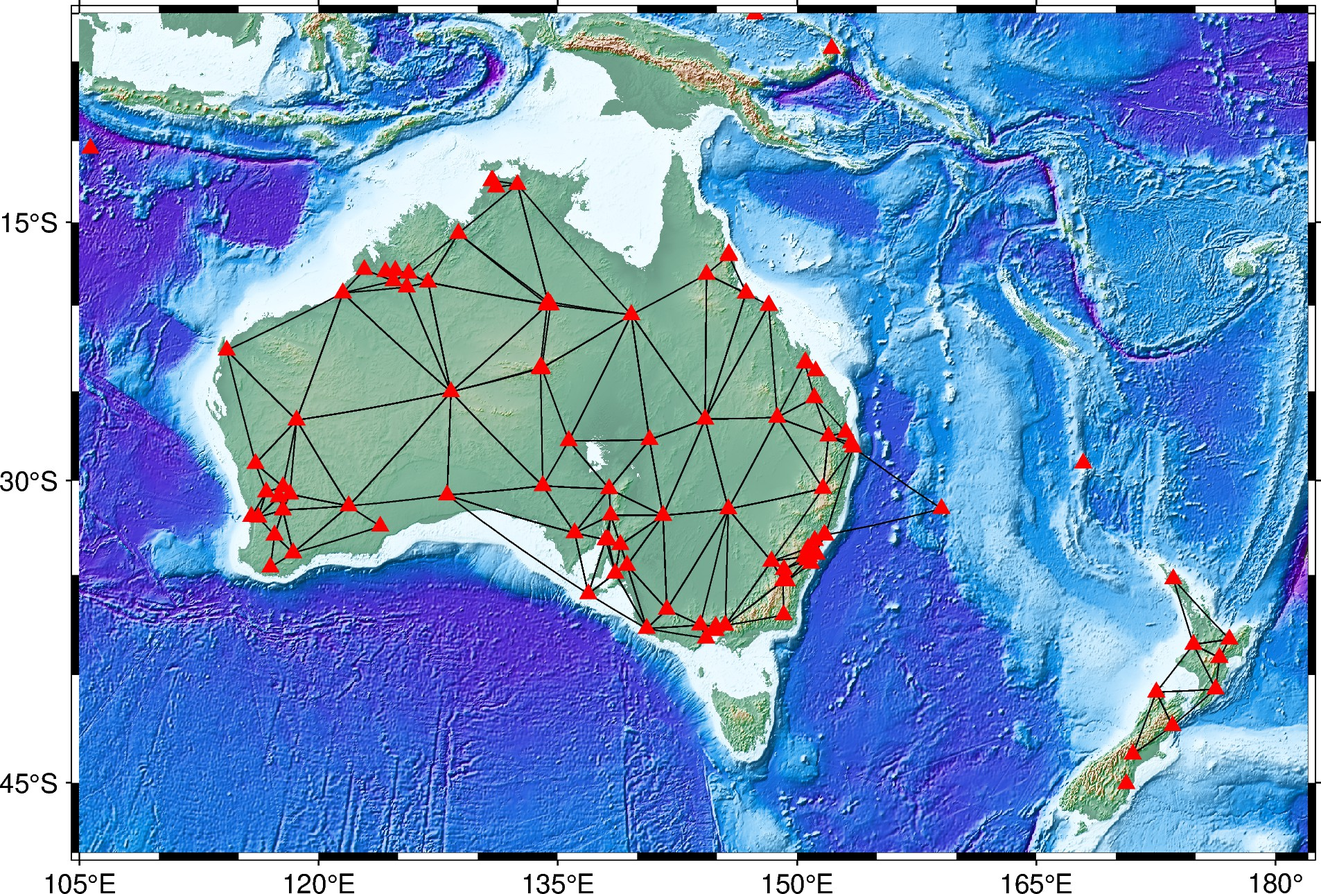
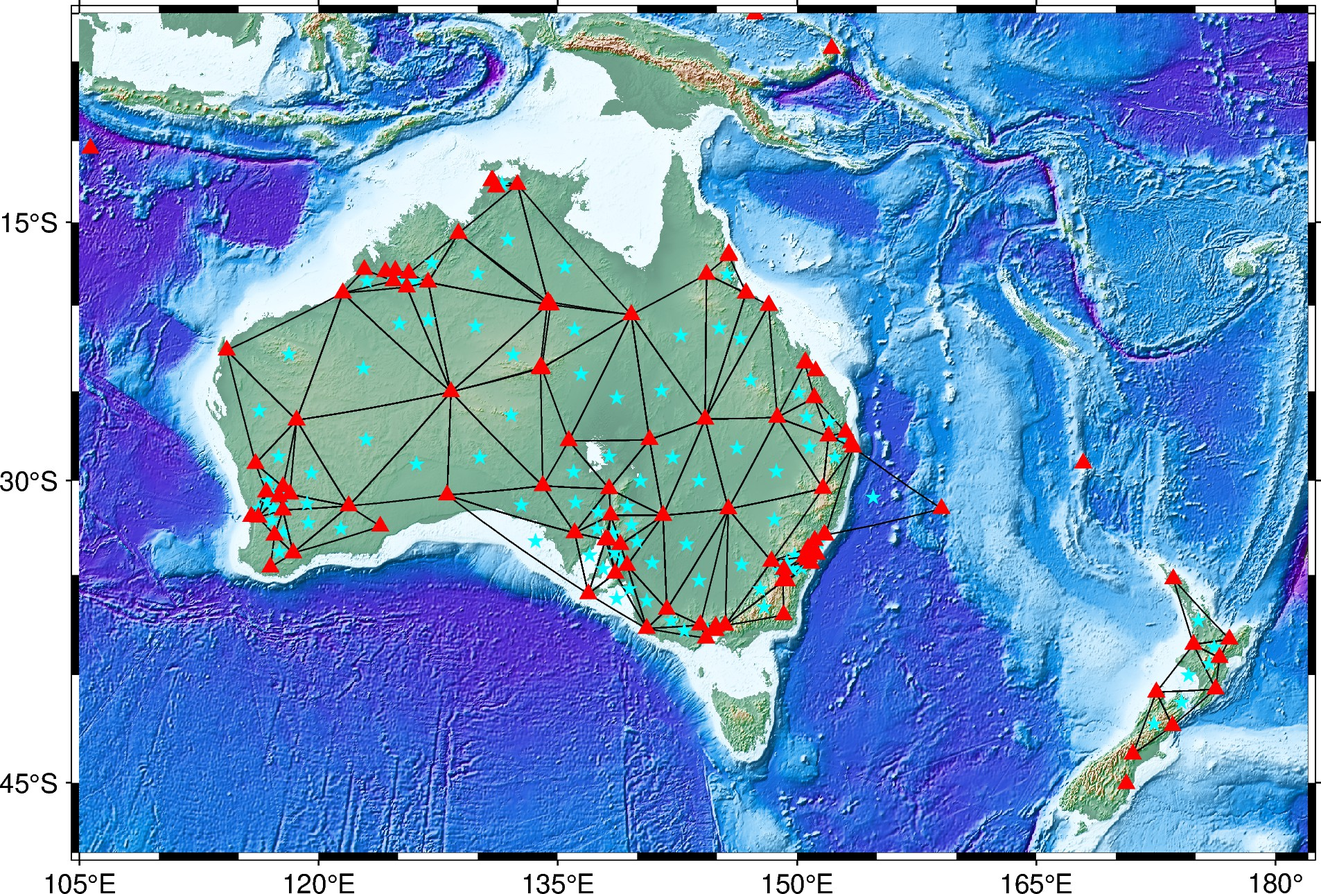
centroid

diff --git a/triad.py b/triad.py
@@ -1,5 +1,4 @@
 import numpy as np
-import pandas as pd
 from geographiclib.geodesic import Geodesic
 class Triad(object):
     def __init__(self, stations=[]):
@@ -7,6 +6,7 @@ class Triad(object):
             return None
         self.stations = stations
         self.dist, self.ang = self.calc_dis_ang()
+        self.clat, self.clon = self.centroid()
         self.cc = np.zeros(3)
         self.dt = np.zeros(3)
 
@@ -24,6 +24,27 @@ class Triad(object):
         ang[2] = np.arccos((dist[0]**2 + dist[1] **2 - dist[2] **2) / (2 * dist[0] * dist[1]))
         ang *= 180.0/np.pi
         return dist, ang
+    def centroid(self):
+        gl = Geodesic.WGS84
+        R = gl.a
+        sta = self.stations
+        lat = np.array([90-sta[i][1] for i in range(3)])
+        lon = np.array([sta[i][2] for i in range(3)])
+        lat *= np.pi/180
+        lon *= np.pi/180
+        X = R*np.sin(lat)*np.cos(lon)
+        Y = R*np.sin(lat)*np.sin(lon)
+        Z = R*np.cos(lat)
+        X3DC = X.mean()
+        Y3DC = Y.mean()
+        Z3DC = Z.mean()
+        L = np.sqrt(X3DC**2 + Y3DC**2 + Z3DC**2)
+        XC = X3DC/L
+        YC = Y3DC/L
+        ZC = Z3DC/L
+        clat = 90 - (np.arctan2(np.sqrt(XC**2 + YC**2),ZC))*180/np.pi
+        clon = np.arctan2(YC, XC) * 180/np.pi
+        return clat, clon
 
 class Triads(object):
     """

diff --git a/rtswed.py b/rtswed.py
@@ -41,6 +41,7 @@ for td in triads.triads:
     lon.append(lon[0])
     for j in range(3):
         fig.plot(x=lon[j:j+2], y=lat[j:j+2], pen='0.35p')
+    fig.plot(x=td.clon,y=td.clat, style="a0.2c",color="cyan" )
 fig.plot(stations[[2,1]],style="t0.25c", color="red")
 fig.savefig('triad.jpg')
 fig.show()
